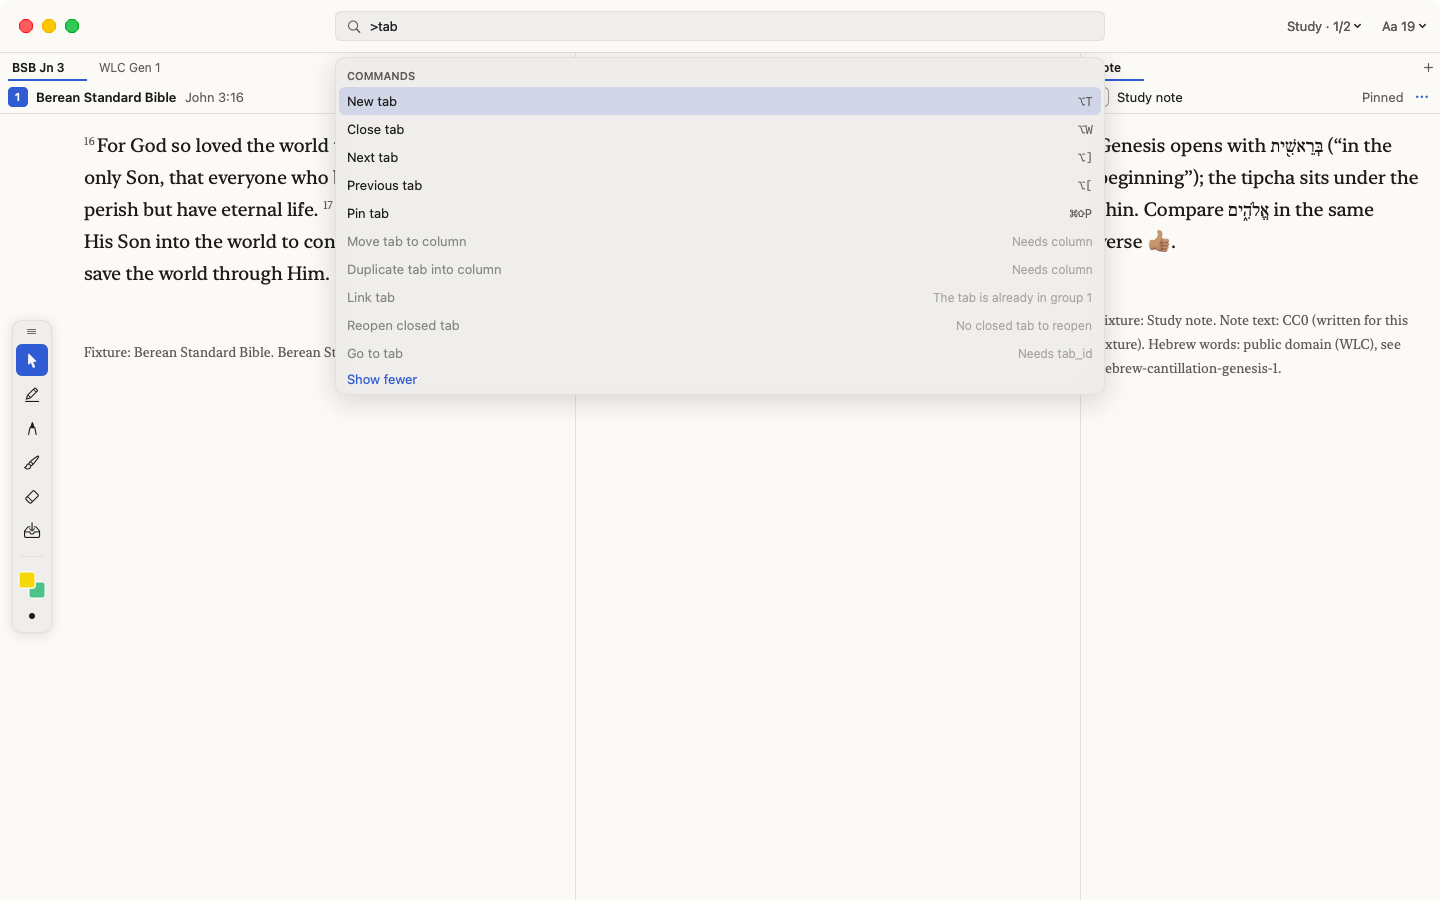
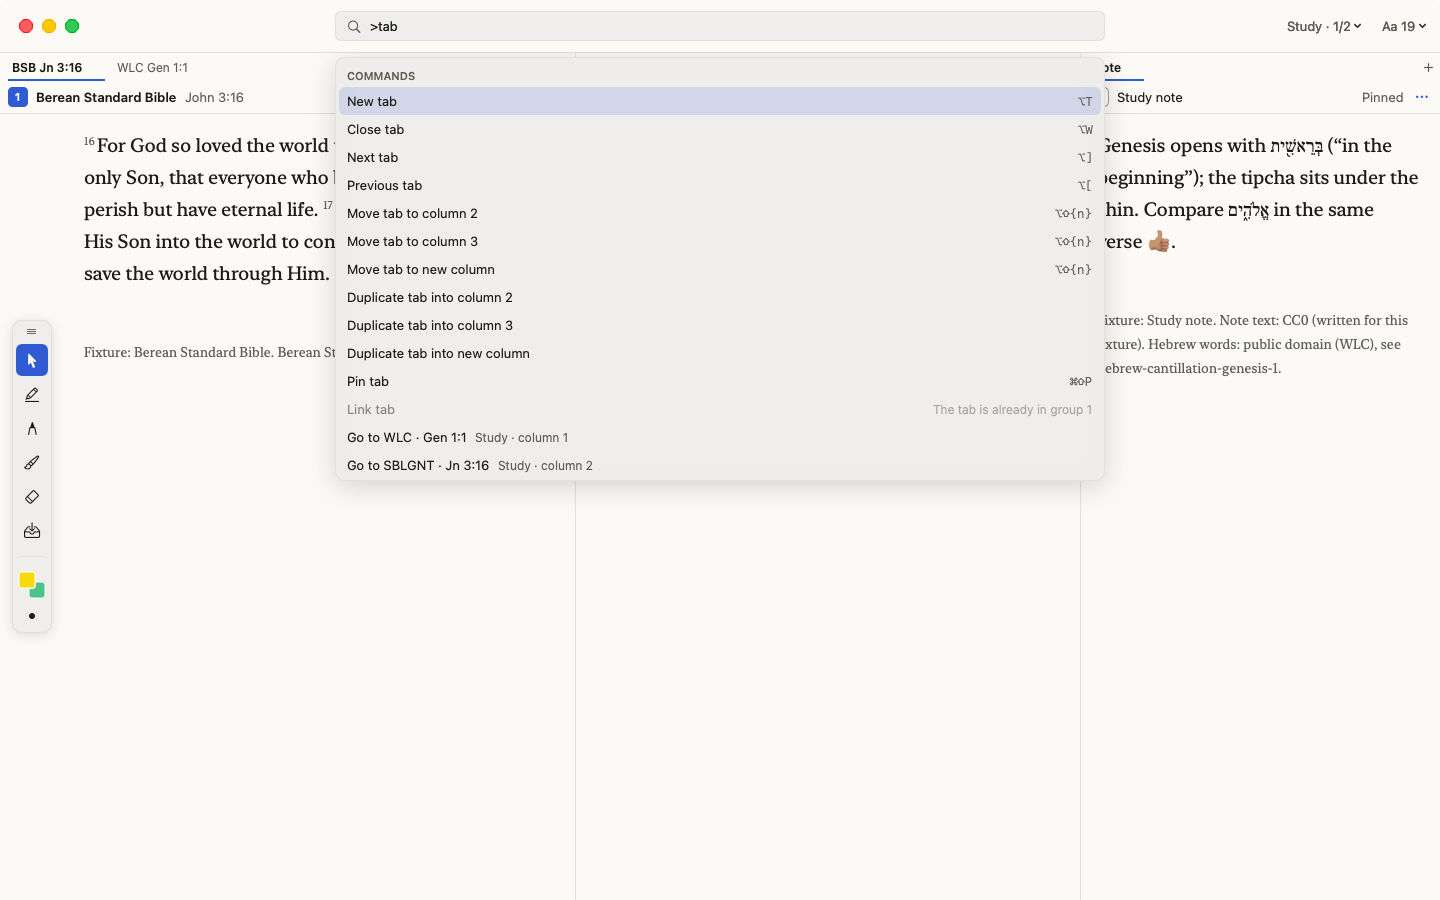
B072: expanded palette rows show their column's key (⌥⇧2), none for a new column
Claude-Session: https://claude.ai/code/session_01PSjqcsLRcrsvGQzbzBAjnV

diff --git a/apps/apple/OpenLogos/Sources/Shell/ShellModel.swift b/apps/apple/OpenLogos/Sources/Shell/ShellModel.swift
@@ -140,6 +140,15 @@ final class ShellModel: ObservableObject {
     /// The Mac default shortcut of a command, for tooltips and menus.
     func shortcut(_ id: String) -> String? { command(id)?.shortcuts.mac.first.map(Self.symbols) }
 
+    /// A row's shortcut as glyphs; a `{n}` family shows the row's column (`⌥⇧2`) and nothing
+    /// for a row with no column number (`… new column`).
+    static func rowShortcut(_ item: ShellPaletteItem) -> String? {
+        guard let shortcut = item.shortcut else { return nil }
+        guard shortcut.contains("{n}") else { return symbols(shortcut) }
+        guard let n = item.args.column, (1...9).contains(n), !item.args.newColumn else { return nil }
+        return symbols(shortcut.replacingOccurrences(of: "{n}", with: "\(n)"))
+    }
+
     static func symbols(_ shortcut: String) -> String {
         shortcut.replacingOccurrences(of: "Cmd+", with: "⌘").replacingOccurrences(of: "Alt+", with: "⌥")
             .replacingOccurrences(of: "Shift+", with: "⇧").replacingOccurrences(of: "Ctrl+", with: "⌃")

diff --git a/apps/apple/OpenLogos/Tests/ShellTests/ShellTests.swift b/apps/apple/OpenLogos/Tests/ShellTests/ShellTests.swift
@@ -241,6 +241,9 @@ final class ShellTests: XCTestCase {
         let moves = model.paletteRows.filter { $0.commandId == "tab.move_to_column" && $0.disabledReason == nil }
         XCTAssertFalse(moves.isEmpty, "a command typed without its column expands into one row per column")
         XCTAssertFalse(moves.contains { $0.args.column == 1 }, "not the current column")
+        let two = try! XCTUnwrap(moves.first { $0.args.column == 2 })
+        XCTAssertEqual(ShellModel.rowShortcut(two), "⌥⇧2", "the {n} family shows the row's column")
+        XCTAssertNil(moves.first { $0.args.newColumn }.flatMap(ShellModel.rowShortcut), "no key for a new column")
         model.paletteText = "Jn 3:16 @2"
         model.paletteTextChanged()
         let first = try! XCTUnwrap(model.paletteRows.first)

diff --git a/apps/apple/OpenLogos/Sources/Shell/ShellView.swift b/apps/apple/OpenLogos/Sources/Shell/ShellView.swift
@@ -366,8 +366,8 @@ struct PaletteRow: View {
             Spacer(minLength: ShellTokens.Spacing.s)
             if let reason = item.disabledReason {
                 Text(reason).font(.system(size: 12)).foregroundStyle(model.theme.chromeColor).lineLimit(1)
-            } else if let shortcut = item.shortcut {
-                Text(ShellModel.symbols(shortcut))
+            } else if let shortcut = ShellModel.rowShortcut(item) {
+                Text(shortcut)
                     .font(.system(size: 12).monospaced())
                     .foregroundStyle(model.theme.chromeColor)
             }
